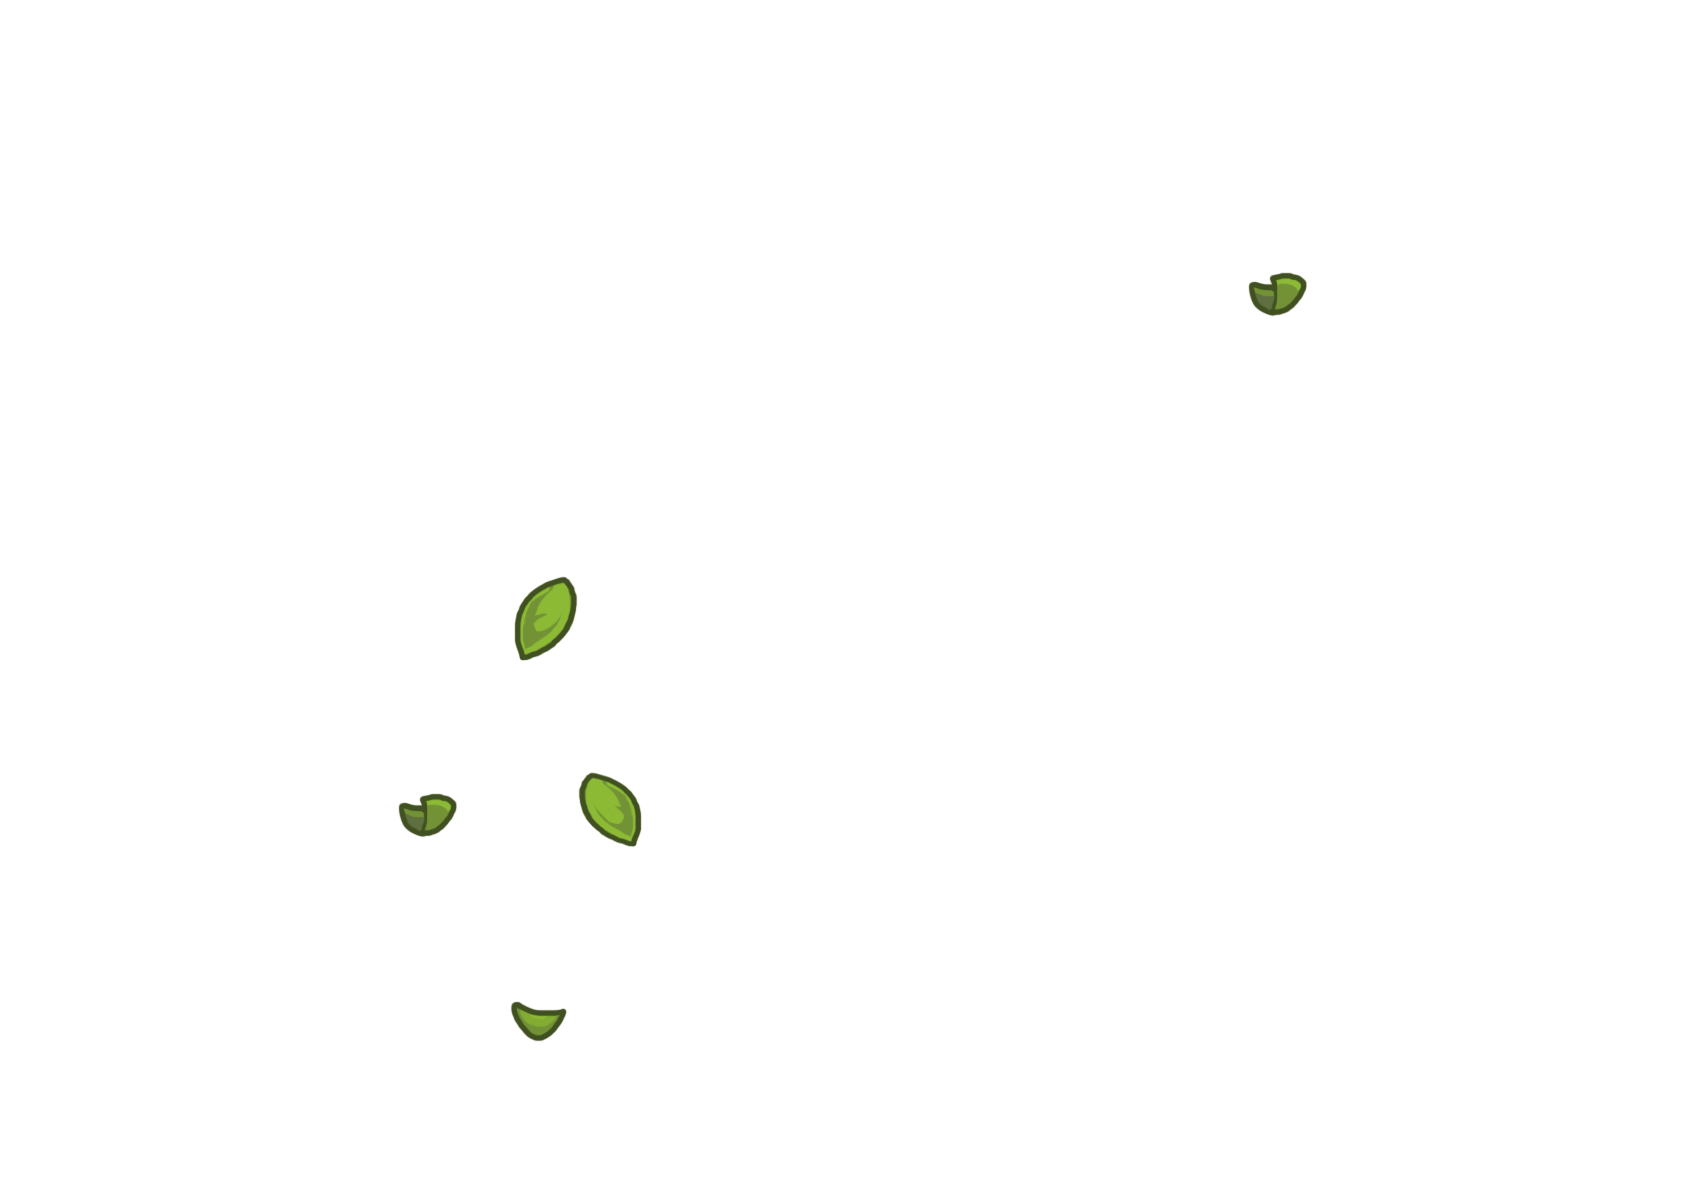
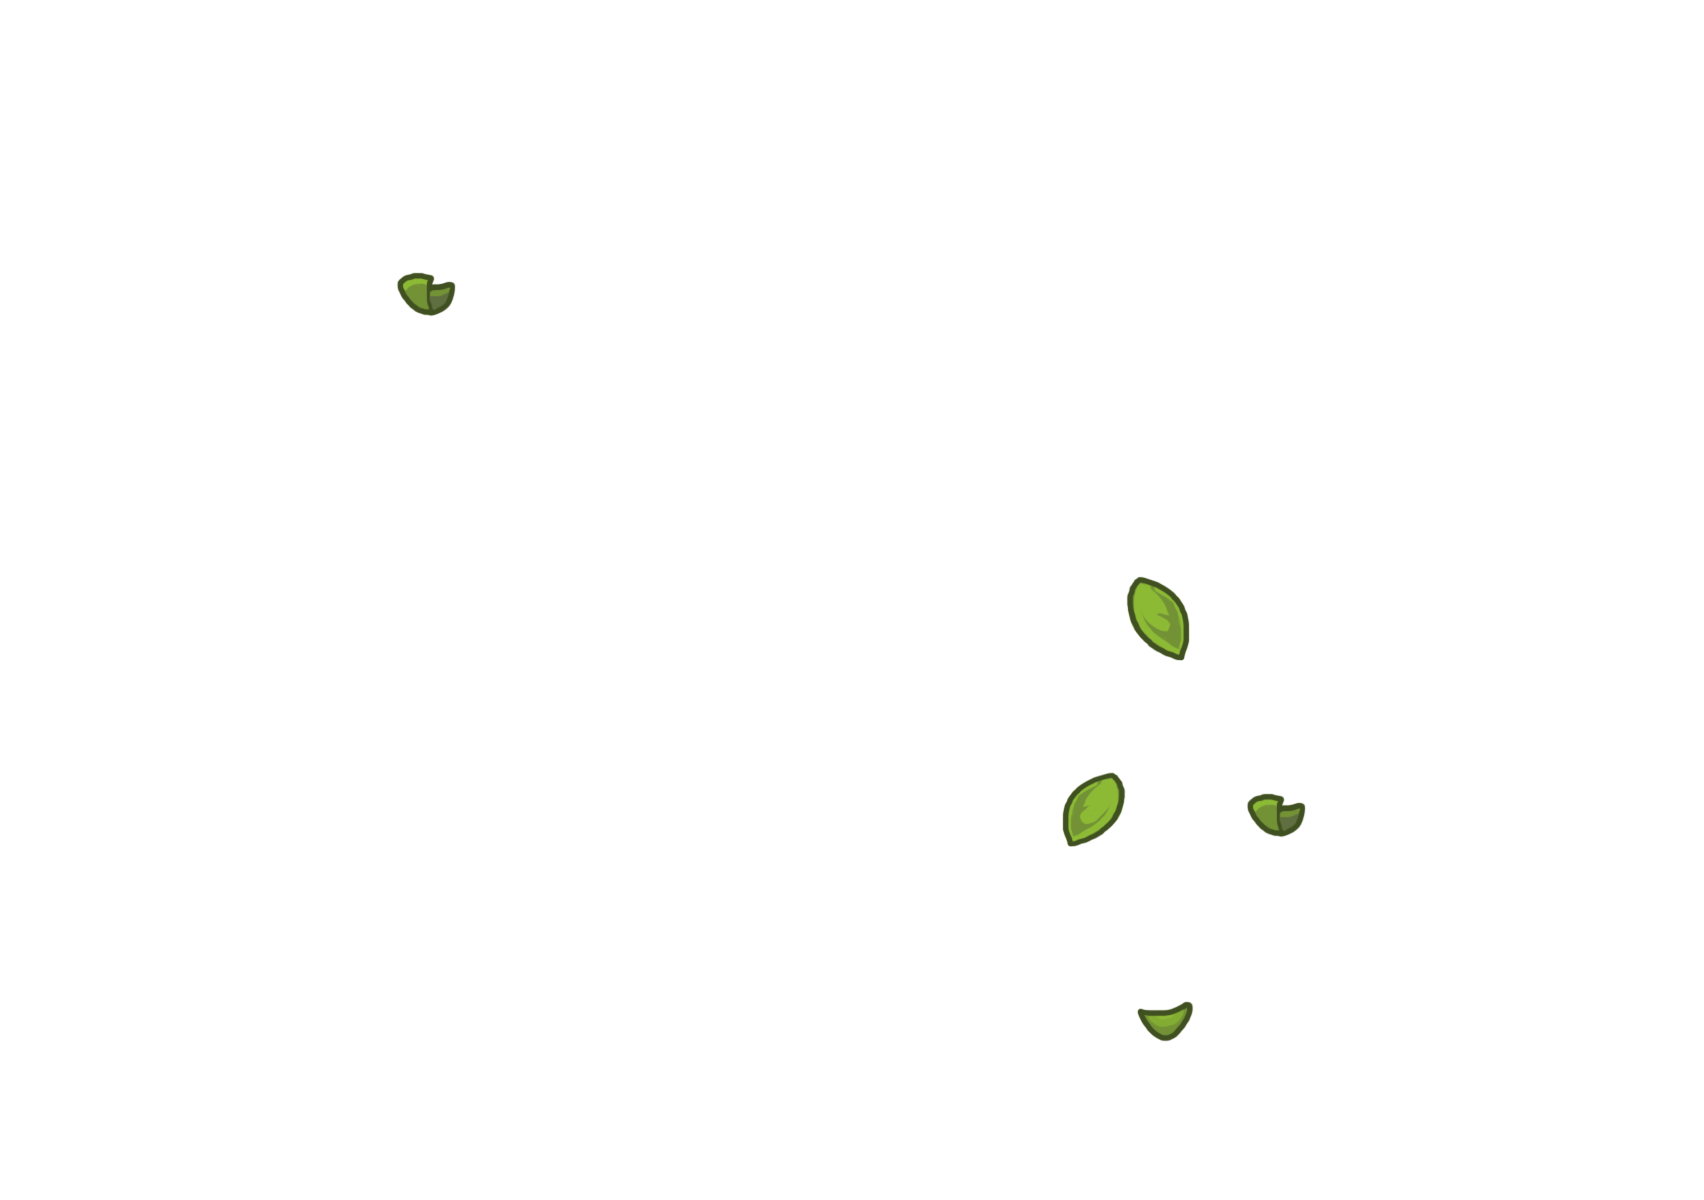
Background is now updated with MATHS

diff --git a/www/index.html b/www/index.html
@@ -23,9 +23,47 @@
 
 <body>
   <div class='wrapper'>
-  <img src='./just-tree.png' class="parallax-layer layer1"/>
-  <img src='./leaves.png' class="parallax-layer layer3"/>
-  <img src='./just-MAGES..png' class="parallax-layer layer2"/>
+  <img src='./just-tree.png' id="layer1" class="parallax-layer layer1"/>
+  <img src='./leaves.png' id="layer3" class="parallax-layer layer3"/>
+  <img src='./just-MAGES..png' id="layer2" class="parallax-layer layer2"/>
+  <input type="button" onclick="alignBAckground()"/>
+  <script>
+
+    const perspective = 2;
+    function calculateAlign(image, z, scale){
+      let ww = window.innerWidth;
+      let wh = window.innerHeight;
+      let res = {};
+      let depthOffsetW = ww/perspective*z/2;
+      let depthOffsetH = ww/perspective*z/2;
+      let scaleOffsetW = image.width*(1-scale)/2;
+      let scaleOffsetH = image.height*(1-scale)/2;
+      res.x = depthOffsetW - scaleOffsetW;
+      res.y = depthOffsetH - scaleOffsetH + ((wh - ww)*(z/perspective)/2); //Correct aspect ratio issues
+      return res;
+    }
+
+    function alignBackground(){
+
+      const [z1,z2,z3] = [-1, -5, -0.5];
+      const [s1,s2,s3] = [0.8, 1.2, 0.6];
+
+      let lay1 = document.getElementById("layer1");
+      let offset1 = calculateAlign(lay1, z1, s1);
+      lay1.style.transform = `translate3d(${offset1.x}px,${offset1.y}px,${z1}px) scale(${s1})`;
+
+      let lay2 = document.getElementById("layer2");
+      let offset2 = calculateAlign(lay2, z2, s2);
+      lay2.style.transform = `translate3d(${offset2.x -1600 + window.innerWidth*1}px,${offset2.y}px,${z2}px) scale(${s2})`;
+
+      let lay3 = document.getElementById("layer3");
+      let offset3 = calculateAlign(lay3, z3, s3);
+      lay3.style.transform = `translate3d(${offset3.x}px,${offset3.y}px,${z3}px) scale(${s3})`;
+
+    }
+    alignBackground();
+    window.onresize = alignBackground;
+  </script>
 
   {TOAST}
   <script>

diff --git a/www/basestyle.css b/www/basestyle.css
@@ -229,59 +229,6 @@ body {
     left: 0;
   }
 
-  @media (max-aspect-ratio: 99/9) {
-    .layer1 {
-        transform: translate3d(-140vh,-90vh,-1px) scale(0.8);
-    }
-    .layer2 {
-        transform: translate3d(-220vh,-120vh,-0.5px) scale(0.6);
-    }
-    .layer3 {
-        transform: translate3d(-220vh,-90vh,-5px) scale(2.2);
-    }
-  }
-
-  @media (max-aspect-ratio: 20/9) {
-    .layer1 {
-        transform: translate3d(-56vh,-25vh,-1px) scale(1);
-    }
-    .layer2 {
-        transform: translate3d(-150vh,-120vh,-0.5px) scale(0.6);
-    }
-    .layer3 {
-        transform: translate3d(-150vh,-90vh,-5px) scale(2.2);
-    }
-  }
-
-  
-  @media (max-aspect-ratio: 1/1) {
-    .layer1 {
-        transform: translate3d(-135vh,-148vh,-1px) scale(0.5);
-    }
-    .layer2 {
-        transform: translate3d(-180vh,-160vh,-0.5px) scale(0.4);
-    }
-    .layer3 {
-        transform: translate3d(-150vh,-90vh,-5px) scale(1.4);
-    }
-  }
-
-  
-
-  @media (max-aspect-ratio: 9/16) {
-    .layer1 {
-        transform: translate3d(-135vh,-148vh,-1px) scale(0.5);
-    }
-    .layer2 {
-        transform: translate3d(-180vh,-160vh,-0.5px) scale(0.4);
-    }
-    .layer3 {
-        transform: translate3d(-150vh,-90vh,-5px) scale(1.4);
-    }
-  }
-  
-  
-
   .layer1 .layer2 .layer3{
     position: absolute;
     height: 100%;
